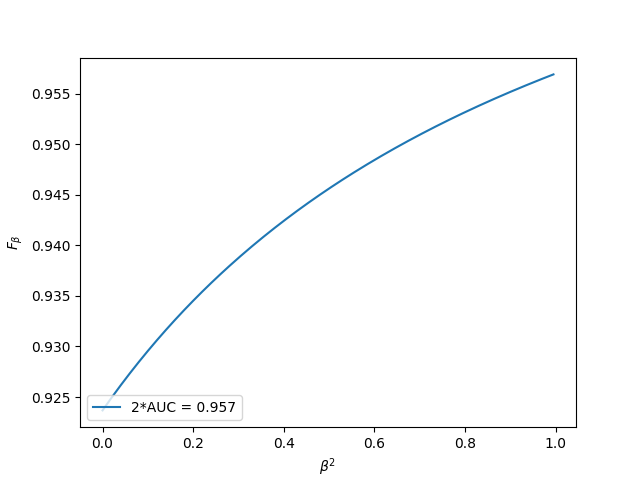
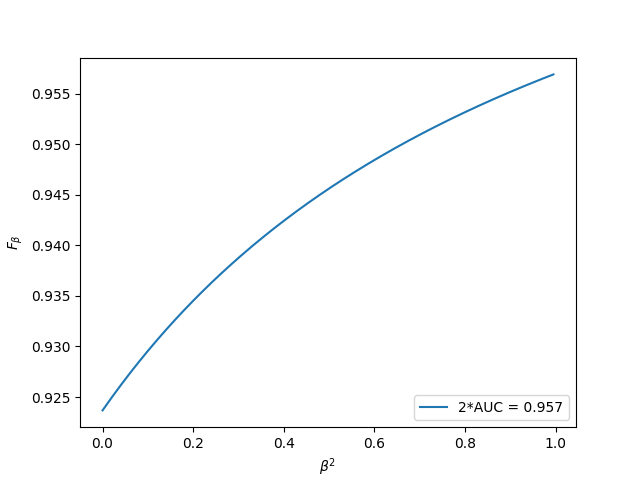
updating legend location

Changed region(s): [[0.125, 0.8125, 0.375, 0.875], [0.7188, 0.8125, 0.875, 0.875], [0.6562, 0.8438, 0.6875, 0.875]]

diff --git a/Classification/src/fbeta2.py b/Classification/src/fbeta2.py
@@ -36,7 +36,7 @@ def fbeta(network_model, batch_size, n_epochs, optimizer, data_set='heridal', tr
     plt.plot(beta2_array, np.asarray(f_beta_list), label=label.format(area))
     plt.xlabel('$\u03B2 ^{2}$')
     plt.ylabel('$F_\u03B2$')
-    plt.legend(loc='lower left')                
+    plt.legend(loc='lower right')                
     plt.savefig(os.path.join(output, 'f_beta_med_beta2_f_beta_' + model_name + '.png'))
     plt.close
 
@@ -69,7 +69,7 @@ def fbeta(network_model, batch_size, n_epochs, optimizer, data_set='heridal', tr
         plt.plot(beta2_array, np.asarray(f_beta_list), label=label.format(area))
         plt.xlabel('$\u03B2 ^{2}$')
         plt.ylabel('$F_\u03B2$')
-        plt.legend(loc='lower left')               
+        plt.legend(loc='lower right')               
         plt.savefig(os.path.join(output, "f_beta_med_test"+str((k+1)/2)+'beta2_f_beta_' + model_name + '.png'))
         plt.close
 
